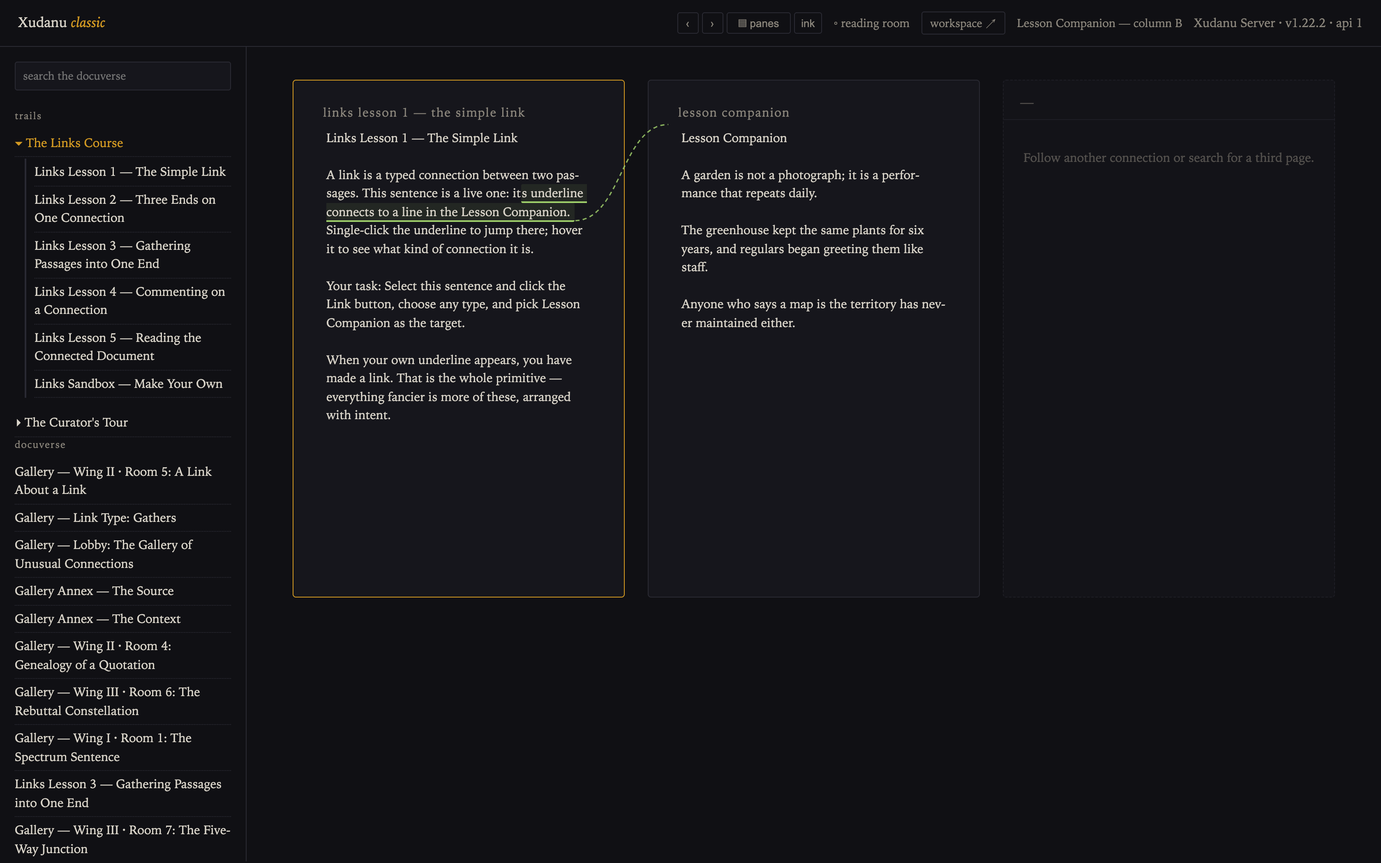
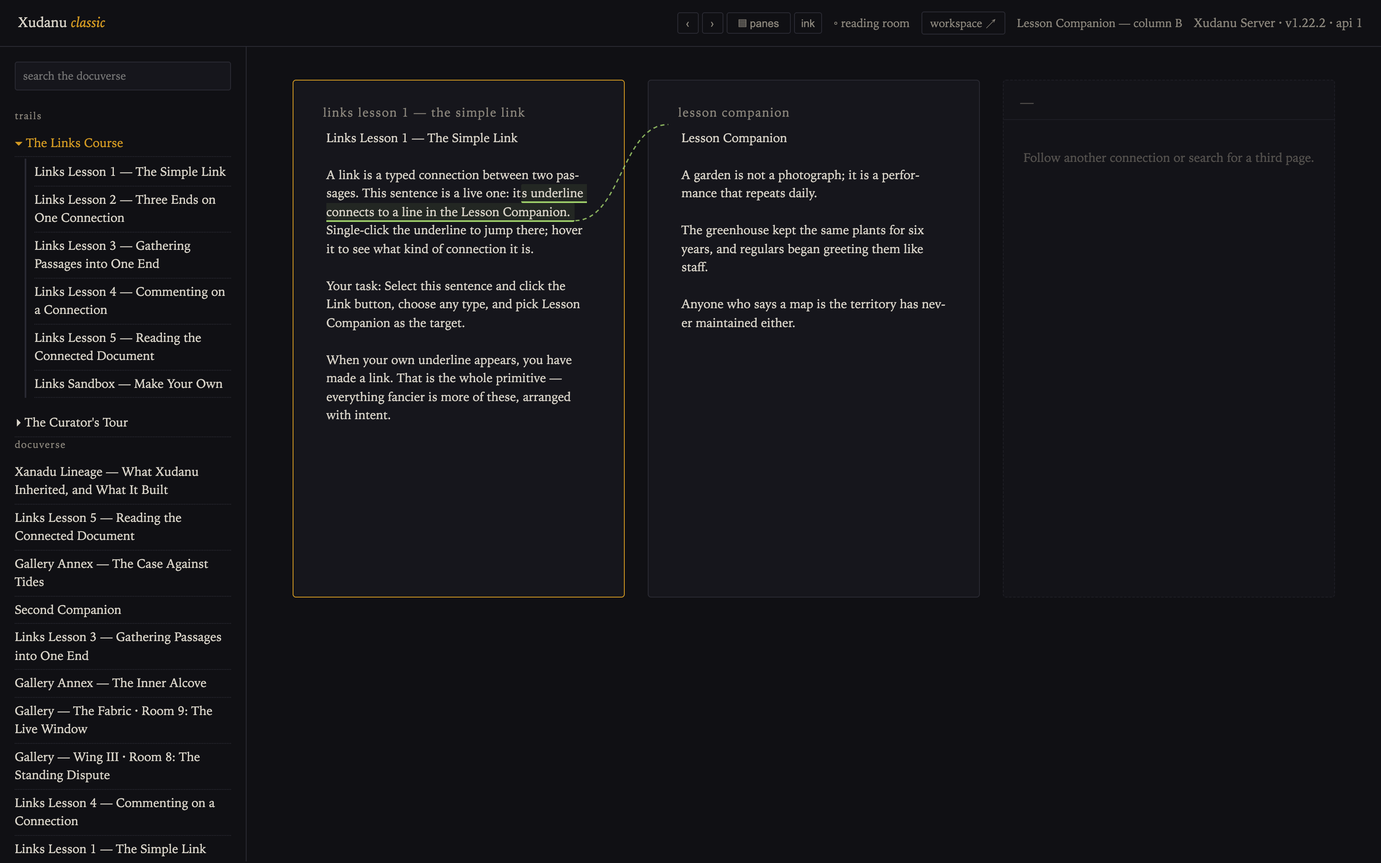
docs: xanalogical systems census — the field mapped and verified
Public census of every known system in the Udanax lineage plus the
independents beside it: completed from the transclusion.org community
list (missing cells filled, missing systems added — Abora Gold, the
reported C+Rust ports, Ted Nelson's own demo lineage (xuCamb/perma.pub,
OpenXanadu), Green modern builds, XCP), live/dead states verified
2026-11-20, a 1988–2026 timeline, and a section pointing at where the
Gold model is actually documented (three front doors: the gold-heritage
concept tables, the Glance system map, the dev/ build order).

Also: document-space.html — widen Space and Position boxes so the
trait subtitles no longer run under the frame strokes; classic
screenshots refreshed against the current build (beams, reading room,
nelson-box).

Corrections invited and attributed — see the census page footer.

Changed region(s): [[0.0, 0.5262, 0.1562, 0.9905]]

diff --git a/docs/xanalogical-census.html b/docs/xanalogical-census.html
@@ -1,0 +1,238 @@
+<!DOCTYPE html>
+<html lang="en">
+<head>
+<meta charset="utf-8">
+<meta name="viewport" content="width=device-width, initial-scale=1">
+<title>The Xanalogical Systems Census 2026 &mdash; who builds on Xanadu</title>
+<meta name="description" content="Every known xanalogical system mapped: the Udanax Green and Gold origins, every port, reimplementation, specification and independent heir &mdash; with live/dead status verified November 2026.">
+<style>
+@import url('https://fonts.googleapis.com/css2?family=Inter:wght@300;400;500;600;700;800&family=JetBrains+Mono:wght@400;500;600&display=swap');
+*{margin:0;padding:0;box-sizing:border-box}
+html{scroll-behavior:smooth}
+body{font-family:'Inter',system-ui,-apple-system,sans-serif;background:#0d1117;color:#c9d1d9;line-height:1.7;padding:0}
+.mono{font-family:'JetBrains Mono',monospace}
+a{color:#58a6ff;text-decoration:none}
+a:hover{text-decoration:underline}
+h1,h2,h3,h4{color:#e6edf3}
+h1{font-size:36px;font-weight:800;margin-bottom:8px;letter-spacing:-0.5px}
+h2{font-size:26px;font-weight:700;margin-top:72px;margin-bottom:16px;padding-bottom:8px;border-bottom:1px solid #21262d}
+h3{font-size:18px;font-weight:600;margin-top:32px;margin-bottom:12px;color:#58a6ff}
+h4{font-size:14px;font-weight:600;margin-top:20px;margin-bottom:6px;color:#8b949e}
+p{margin-bottom:12px;max-width:820px}
+code{font-family:'JetBrains Mono',monospace;font-size:0.88em;background:rgba(110,118,129,0.15);padding:2px 6px;border-radius:4px;color:#79c0ff}
+pre{background:#161b22;border:1px solid #30363d;border-radius:8px;padding:16px 20px;margin:16px 0;overflow-x:auto;font-family:'JetBrains Mono',monospace;font-size:13px;line-height:1.6;color:#c9d1d9}
+.content-wrap{max-width:960px;margin:0 auto;padding:48px 32px 80px}
+.subtitle{font-size:18px;color:#8b949e;font-weight:300;margin-bottom:40px}
+.diagram-container{margin:32px 0;padding:24px;background:#0d1117;border:1px solid #21262d;border-radius:12px;overflow-x:auto}
+.diagram-container svg{display:block;margin:0 auto;max-width:100%;height:auto}
+.diagram-caption{text-align:center;font-size:12px;color:#484f58;margin-top:12px;font-style:italic}
+.note{background:rgba(88,166,255,0.06);border-left:3px solid #58a6ff;padding:12px 16px;margin:16px 0;border-radius:0 6px 6px 0;font-size:14px;color:#8b949e}
+.note strong{color:#58a6ff}
+.gold{background:rgba(210,153,34,0.06);border-left:3px solid #d29922;padding:12px 16px;margin:16px 0;border-radius:0 6px 6px 0;font-size:14px;color:#8b949e}
+.gold strong{color:#d29922}
+.warning{background:rgba(248,81,73,0.06);border-left:3px solid #f85149;padding:12px 16px;margin:16px 0;border-radius:0 6px 6px 0;font-size:14px;color:#8b949e}
+.warning strong{color:#f85149}
+table{width:100%;border-collapse:collapse;margin:16px 0;font-size:13px}
+th{text-align:left;padding:10px 14px;border-bottom:2px solid #30363d;color:#8b949e;font-size:10px;text-transform:uppercase;letter-spacing:0.5px;font-weight:600}
+td{padding:10px 14px;border-bottom:1px solid #21262d;vertical-align:top}
+.toc{background:#161b22;border:1px solid #21262d;border-radius:8px;padding:20px 24px;margin:24px 0}
+.toc a{display:block;padding:3px 0;font-size:14px;color:#8b949e}
+.toc a:hover{color:#58a6ff}
+.toc .toc-section{font-weight:600;color:#e6edf3;margin-top:8px}
+.pro{color:#3fb950}
+.con{color:#f85149}
+.neutral{color:#d29922}
+.tag{display:inline-block;font-size:10px;font-weight:700;padding:2px 8px;border-radius:10px;text-transform:uppercase;letter-spacing:0.5px;margin-left:6px;vertical-align:middle}
+.tag-gold{background:rgba(210,153,34,0.15);color:#d29922;border:1px solid rgba(210,153,34,0.3)}
+.tag-green{background:rgba(63,185,80,0.15);color:#3fb950;border:1px solid rgba(63,185,80,0.3)}
+.tag-blue{background:rgba(88,166,255,0.15);color:#58a6ff;border:1px solid rgba(88,166,255,0.3)}
+.tag-purple{background:rgba(163,113,247,0.15);color:#a371f7;border:1px solid rgba(163,113,247,0.3)}
+.tag-red{background:rgba(248,81,73,0.15);color:#f85149;border:1px solid rgba(248,81,73,0.3)}
+ul{margin-left:20px;margin-bottom:12px;list-style:disc}
+li{margin-bottom:4px}
+.footer{margin-top:80px;padding-top:24px;border-top:1px solid #21262d;font-size:12px;color:#484f58;text-align:center}
+@media print{body{background:#fff;color:#222}h1,h2,h3,h4{color:#111}table{font-size:11px}}
+</style>
+</head>
+<body>
+<div style="background:#161b22;border-bottom:1px solid #30363d;color:#8b949e;font-size:13px;padding:6px 16px;text-align:center">An independent interpretation of the released Udanax Gold source &middot; not Project Xanadu documentation &middot; <a href="provenance.html" style="color:#58a6ff;text-decoration:none">about this documentation</a></div>
+<div class="content-wrap">
+
+<h1>The Xanalogical Systems Census</h1>
+<p class="subtitle">Every known system in the Udanax lineage &mdash; and the independents beside it &mdash; mapped, verified, and offered back to the community.</p>
+
+<div class="note"><strong>What this is.</strong> A census of xanalogical systems, started as a community working list on the transclusion.org Zulip in 2026. This page fills in the gaps, adds the systems the working list missed, and records a live/dead check of every web-facing artifact as of <strong>20 November 2026</strong>. A census is a snapshot, not a registry: it shows where xanalogical builders were focusing at one datable moment &mdash; and dated observations accumulate here rather than being silently overwritten, so over time the page becomes a record of where the field&rsquo;s attention went, not just what it built. Every entry carries what was verified and how. Corrections are welcome and will be attributed &mdash; <a href="#corrections">correct the table, don&rsquo;t reconstruct the history</a>.</div>
+
+<div class="toc">
+<div class="toc-section">Contents</div>
+<a href="#census">1. The census</a>
+<a href="#additions">2. Proposed additions &mdash; systems the list missed</a>
+<a href="#teds-demos">3. Ted Nelson&rsquo;s own browser demos &mdash; what remains</a>
+<a href="#timeline">4. Timeline, 1988&ndash;2026</a>
+<a href="#gold-model">5. Where the Gold model is actually documented</a>
+<a href="#sources">6. Sources and verification</a>
+<a href="#corrections">7. Corrections &mdash; how to reach us</a>
+</div>
+
+<h2 id="census">The census</h2>
+<p>Lineage tags: <span class="tag tag-gold">Gold</span> descended from the Udanax Gold design &middot; <span class="tag tag-green">Green</span> descended from Udanax Green (Xu88) &middot; <span class="tag tag-blue">Independent</span> no Udanax ancestry, same problem space &middot; <span class="tag tag-purple">Origin</span> the systems themselves.</p>
+
+<table>
+<thead><tr><th>System</th><th>Author</th><th>Since</th><th>Lineage</th><th>Stack</th><th>Status (Nov 2026)</th></tr></thead>
+<tbody>
+<tr><td><strong>Udanax Green</strong> (Xu88)</td><td>1988 team</td><td>1988</td><td><span class="tag tag-purple">Origin</span></td><td>C</td><td>Open-sourced 1999</td></tr>
+<tr><td><strong>Udanax Gold</strong></td><td>1992 team</td><td>1992</td><td><span class="tag tag-purple">Origin</span></td><td>C (cross-compiled from Smalltalk)</td><td>Open-sourced 1999</td></tr>
+<tr><td><strong>udanax-test-harness</strong></td><td>Shane Isbell</td><td>~2025&ndash;26</td><td><span class="tag tag-green">Green</span></td><td>&mdash;</td><td>On GitHub; details unverified</td></tr>
+<tr><td><strong>xanadu-spec</strong></td><td>Shane Isbell</td><td>2026</td><td><span class="tag tag-green">Green</span> (formal spec, agentic-AI-derived)</td><td>spec</td><td>On GitHub; accuracy unvalidated</td></tr>
+<tr><td><strong>OulipoMachine</strong></td><td>Shane Isbell</td><td>2017</td><td><span class="tag tag-green">Green</span>-inspired</td><td>Java</td><td>Archived ~2021</td></tr>
+<tr><td><strong>Alph</strong></td><td>Adam Moore</td><td>2016</td><td><span class="tag tag-blue">Independent</span>, web-native</td><td>JavaScript</td><td>Active (per census list)</td></tr>
+<tr><td><strong>xu60</strong></td><td>Raymond Finzel</td><td>Nov 2025</td><td><span class="tag tag-gold">Gold</span>-inspired deep addressing</td><td>Python</td><td class="pro">Active &mdash; PyPI 0.1.5, Sep 2026</td></tr>
+<tr><td><strong>Xudanu</strong></td><td>David Jones</td><td>2026</td><td><span class="tag tag-gold">Gold</span> document model, original code</td><td>Rust + React</td><td class="pro">Active &mdash; <a href="https://demo.transclusion.org">live public sandbox</a> verified 2026-11-20 (238 works)</td></tr>
+<tr><td><strong>Seed Hypermedia</strong></td><td>Gabo Beaumont et al. (Mintter Inc.)</td><td>2023 (as Mintter; rebranded Feb 2025)</td><td><span class="tag tag-blue">Independent</span> P2P, Xanadu-aware</td><td>Go/TS, libp2p + CRDTs</td><td class="pro">Very active &mdash; ~98 members, ACM HT&rsquo;24 paper</td></tr>
+</tbody>
+</table>
+
+<div class="gold"><strong>What the table says.</strong> Of the Gold lineage specifically, exactly one system is active with a running multi-user product: Xudanu. Its core stays close to the Gold model &mdash; and where it diverges, the divergences are documented openly, subsystem by subsystem, complexity comparison by complexity comparison, in both directions. xu60 is an addressing layer (content-addressed immutable URLs, not a docuverse). Everything else in the Gold line is dead, unreleased, or a spec. The independents (Alph, Seed) are alive and well in adjacent territory &mdash; different lineage, overlapping ambition.</div>
+
+<h2 id="additions">Proposed additions &mdash; systems the list missed</h2>
+<p>Found while completing this census. Offered back to the community list; verification method for each is in <a href="#sources">sources</a>.</p>
+
+<table>
+<thead><tr><th>System</th><th>Author</th><th>Since</th><th>Lineage</th><th>Status (Nov 2026)</th></tr></thead>
+<tbody>
+<tr><td><strong>Abora Gold</strong> / <a href="https://github.com/jonesd/udanax-gold2java">udanax-gold2java</a></td><td>David Jones</td><td>2003&ndash;2014</td><td><span class="tag tag-gold">Gold</span> (Smalltalk&rarr;Java, automatic translator + hand-translated classes)</td><td>Dead; mirrors the Gold Smalltalk and C++ sources. Predecessor of Xudanu</td></tr>
+<tr><td><strong>R. Gregory C + Rust ports</strong></td><td>Roger Gregory</td><td>2026 (reported Sept)</td><td><span class="tag tag-gold">Gold</span> (from ~150,000 lines Smalltalk; ~27,000 lines each)</td><td>Reported publicly as finished but <em>unreleased</em> (&ldquo;waiting on Ted&rdquo;); no code published; byte-identical-output claim unverified until release; means of translation not stated</td></tr>
+<tr><td><strong>AI-coded Xanadu demo</strong></td><td>&ldquo;alice&rdquo; (gitworkshop)</td><td>~Sept 2026</td><td>Built from published docs: permascrolls, xanalinks, transpointing windows</td><td>Python stdlib demo; single machine, no deps</td></tr>
+<tr><td><strong>udanax-green modern builds</strong></td><td>enkiv2; Kragen Javier Sitaker; nkhine</td><td>2019&ndash;2021&ndash;</td><td><span class="tag tag-green">Green</span> (actual code)</td><td>Mirrors and modern-Linux build fixes on GitHub</td></tr>
+<tr><td><strong>xuCamb / perma.pub</strong> (&ldquo;Cambridge Xanadu&rdquo;)</td><td>Ted Nelson + Edward Betts</td><td>2016</td><td><span class="tag tag-purple">Origin designer&rsquo;s own</span> &mdash; EDL, xanalinks, visible transclusion, simulated micropayment</td><td class="con">Server dead &mdash; see <a href="#teds-demos">below</a></td></tr>
+<tr><td><strong>OpenXanadu</strong></td><td>Nicholas Levin (for Ted Nelson)</td><td>2014</td><td><span class="tag tag-purple">Origin designer&rsquo;s own</span> &mdash; transclusions only; xanalinks cut to finish in time</td><td class="pro">Live &mdash; <a href="https://xanadu.com/xanademos/MoeJusteOrigins.html">xanadu.com demo</a> verified 2026-11-20</td></tr>
+</tbody>
+</table>
+
+<div class="note"><strong>Adjacent:</strong> <a href="https://github.com/jonesd/xcp">XCP</a> &mdash; a proposed open standard for cross-implementation content sharing between xanalogical systems. Not a system; listed because it matters the day more than one of these runs at once.</div>
+
+<h2 id="teds-demos">Ted Nelson&rsquo;s own browser demos &mdash; what remains</h2>
+<p>The origin designer&rsquo;s own line of browser demos is itself part of the census, and part of the story. Ted Nelson, describing where the design settled: <em>&ldquo;The Xanadu design has essentially resolved to one basic document concept: parallel pages with visible connections.&rdquo;</em> (<a href="http://hyperland.com/HTbrew-D11">hyperland.com</a>)</p>
+
+<table>
+<thead><tr><th>Demo</th><th>Year</th><th>What it had</th><th>State, verified 2026-11-20</th></tr></thead>
+<tbody>
+<tr><td><strong>XanaduSpace</strong></td><td>2003&ndash;7</td><td>Full 3D demo (with Robert Adamson Smith): EDL assembly, parallel pages, visible links and transclusions</td><td>Windows-only download; development abandoned (&ldquo;impossible due to the complexity of the code&rdquo;)</td></tr>
+<tr><td><strong>OpenXanadu</strong></td><td>2014</td><td>Browser viewer; transclusions only &mdash; xanalinks cut to finish in the time available</td><td class="pro">Live (200)</td></tr>
+<tr><td><strong>xuCamb / perma.pub</strong></td><td>2016</td><td>The most complete: EDL + xanalinks + visible transclusion + simulated micropayment, users could supply their own EDLs</td><td class="con">Dead: <code>xanadu.com/demo/</code> is a meta-refresh shell; perma.pub fails TLS (invalid certificate); surviving artifacts are orphaned xanalink text files on hyperland.com</td></tr>
+</tbody>
+</table>
+
+<div class="warning"><strong>The pattern:</strong> the fuller the demo, the deader the link. What remains reachable is the version that cut links; the version that had everything points into a void. (And transclusion.com itself, for contrast, is a parked domain-for-sale page.) The reading public currently has almost nowhere to watch passages visibly connect. This is the gap every active system in the census is, in one way or another, trying to fill.</div>
+
+<h2 id="timeline">Timeline, 1988&ndash;2026</h2>
+
+<div class="diagram-container">
+<svg viewBox="0 0 880 250" xmlns="http://www.w3.org/2000/svg" role="img" aria-label="Timeline of xanalogical systems 1988 to 2026">
+<!-- decade grid -->
+<line x1="40" y1="30" x2="840" y2="30" stroke="#21262d" stroke-width="1"/>
+<g font-family="Inter,sans-serif" font-size="10" fill="#484f58">
+<text x="40" y="22">1988</text>
+<text x="245" y="22">1999</text>
+<text x="450" y="22">2010</text>
+<text x="655" y="22">2020</text>
+<text x="830" y="22">2026</text>
+</g>
+<line x1="40" y1="30" x2="40" y2="220" stroke="#21262d" stroke-width="1"/>
+<line x1="245" y1="30" x2="245" y2="220" stroke="#21262d" stroke-width="1"/>
+<line x1="450" y1="30" x2="450" y2="220" stroke="#21262d" stroke-width="1"/>
+<line x1="655" y1="30" x2="655" y2="220" stroke="#21262d" stroke-width="1"/>
+<!-- axis -->
+<line x1="40" y1="140" x2="840" y2="140" stroke="#30363d" stroke-width="2"/>
+<!-- markers: x = 40 + (year-1988)*20.5 -->
+<!-- 1988 Green origin -->
+<circle cx="40" cy="140" r="6" fill="#a371f7"/>
+<text x="46" y="128" font-family="Inter,sans-serif" font-size="11" fill="#c9d1d9">Udanax Green</text>
+<!-- 1992 Gold origin -->
+<circle cx="122" cy="140" r="6" fill="#a371f7"/>
+<text x="128" y="156" font-family="Inter,sans-serif" font-size="11" fill="#c9d1d9">Udanax Gold (1992)</text>
+<!-- 1999 open-sourced -->
+<circle cx="266" cy="140" r="6" fill="#e6edf3"/>
+<text x="272" y="128" font-family="Inter,sans-serif" font-size="11" fill="#8b949e">open-sourced 1999</text>
+<!-- 2003 Abora -->
+<circle cx="347" cy="140" r="5" fill="#d29922"/>
+<text x="330" y="166" font-family="Inter,sans-serif" font-size="11" fill="#d29922">Abora Gold 2003&ndash;14</text>
+<!-- 2014 OpenXanadu -->
+<circle cx="573" cy="140" r="5" fill="#a371f7"/>
+<text x="478" y="128" font-family="Inter,sans-serif" font-size="11" fill="#a371f7">OpenXanadu 2014 (live)</text>
+<!-- 2016 xuCamb + Alph -->
+<circle cx="614" cy="140" r="5" fill="#a371f7"/>
+<text x="600" y="166" font-family="Inter,sans-serif" font-size="11" fill="#a371f7">xuCamb 2016 (dead)</text>
+<circle cx="614" cy="118" r="5" fill="#58a6ff"/>
+<text x="624" y="104" font-family="Inter,sans-serif" font-size="11" fill="#58a6ff">Alph 2016</text>
+<!-- 2017 OulipoMachine -->
+<circle cx="634" cy="140" r="5" fill="#3fb950"/>
+<text x="612" y="192" font-family="Inter,sans-serif" font-size="11" fill="#3fb950">OulipoMachine 2017 (archived)</text>
+<!-- 2019 enkiv2 -->
+<circle cx="675" cy="140" r="4" fill="#3fb950"/>
+<text x="655" y="156" font-family="Inter,sans-serif" font-size="10" fill="#3fb950">Green builds 2019&ndash;21</text>
+<!-- 2023 Mintter/Seed -->
+<circle cx="757" cy="140" r="5" fill="#58a6ff"/>
+<text x="712" y="166" font-family="Inter,sans-serif" font-size="11" fill="#58a6ff">Seed 2023&ndash;</text>
+<!-- 2025 xu60 -->
+<circle cx="800" cy="140" r="5" fill="#d29922"/>
+<text x="744" y="128" font-family="Inter,sans-serif" font-size="11" fill="#d29922">xu60 2025&ndash;</text>
+<!-- 2026 cluster -->
+<circle cx="822" cy="140" r="6" fill="#d29922"/>
+<text x="676" y="214" font-family="Inter,sans-serif" font-size="11" fill="#d29922">2026: Xudanu, xanadu-spec, ports</text>
+<!-- legend -->
+<g font-family="Inter,sans-serif" font-size="10">
+<circle cx="60" cy="212" r="4" fill="#d29922"/><text x="70" y="216" fill="#8b949e">Gold lineage</text>
+<circle cx="165" cy="212" r="4" fill="#3fb950"/><text x="175" y="216" fill="#8b949e">Green lineage</text>
+<circle cx="275" cy="212" r="4" fill="#58a6ff"/><text x="285" y="216" fill="#8b949e">Independent</text>
+<circle cx="380" cy="212" r="4" fill="#a371f7"/><text x="390" y="216" fill="#8b949e">Origin / designer&rsquo;s own</text>
+<circle cx="530" cy="212" r="4" fill="#e6edf3"/><text x="540" y="216" fill="#8b949e">Event</text>
+</g>
+</svg>
+<div class="diagram-caption">Thirty-eight years: two origin systems (1988, 1992), one burst of openness (1999), a scatter of descendants &mdash; and, since 2025, the busiest the field has ever been.</div>
+</div>
+
+<h2 id="gold-model">Where the Gold model is actually documented</h2>
+<p>The 1999 release was machine-generated C++, famously unreadable. The readable Smalltalk it came from was never given a prose companion. Between gwern&rsquo;s critique of the <em>idea</em> and machine-derived specs of <em>Green</em>, the clearest public explanation of how the <strong>Gold model actually works</strong> that we know of is the documentation set on this site &mdash; public, free, and built while implementing it:</p>
+<ul>
+<li><a href="gold-heritage.html">Udanax Gold Heritage &mdash; concept mapping</a> &mdash; 35+ Gold concepts (enfilades, canopy, clubs, locks, backfollow, H-tree) each traced to its running descendant. The front door if you speak Gold&rsquo;s vocabulary.</li>
+<li><a href="index.html">Xudanu at a Glance</a> &mdash; the clickable whole-system map, every region opening a deep-dive page. The front door if you speak systems vocabulary.</li>
+<li><a href="document-space.html">Document Space: Tumblers and Enfilades</a> &mdash; the position/region/algebra foundation under every address in the system.</li>
+<li><a href="transclusion-engine.html">Transclusion Engine</a> &mdash; canopy trees, backfollow queries, content-reuse detection.</li>
+<li><a href="transclusion-architecture.html">Transclusion Architecture</a> &mdash; this implementation&rsquo;s variant, compared honestly against Gold&rsquo;s enfilade/I-stream model.</li>
+<li><a href="gold-xudanu-complexity.html">Gold vs. Xudanu complexity</a> &mdash; subsystem-by-subsystem Big-O and footprint, derived by reading both codebases &mdash; in both directions, including where the 1992 design holds the advantage.</li>
+<li><a href="technical-architecture.html">Technical Architecture</a> &mdash; 15-section deep dive with Big-O analysis of every data structure.</li>
+<li>The engineering record (<code>dev/</code> series) &mdash; <a href="dev/xanadu-17-rules.html">Nelson&rsquo;s 17 rules with compliance status</a>, the <a href="dev/phases-4-6-mapping-fetext-wrapper-clubs.html">phase documents</a> (mapping algebra &rarr; clubs &rarr; transclusion queries &rarr; federation &rarr; governance), the <a href="dev/migration-notes.html">C++&rarr;Rust migration notes</a>, and the <a href="dev/test-registry.html">test registry</a>. Read in sequence, it doubles as a build order for a xanalogical engine &mdash; for anyone building their own.</li>
+<li><a href="xanadu-comparison.html">Udanax-Gold vs. OpenXanadu vs. Xudanu</a> &mdash; three lineages, feature by feature.</li>
+</ul>
+<p>Offered so the next builder doesn&rsquo;t start from zero. If you know of comparable public documentation of the Gold model elsewhere, this section will name it &mdash; <a href="#corrections">tell us</a>.</p>
+
+<h2 id="sources">Sources and verification</h2>
+<ul>
+<li><strong>The starting list:</strong> the xanalogical systems census worked on the transclusion.org Zulip (2026). This page is a completion of that list, not a replacement for it.</li>
+<li><strong>The framing critique:</strong> Gwern, <a href="https://gwern.net/xanadu">&ldquo;Xanadu: Then and Now&rdquo;</a> &mdash; the best-known critical essay on the design; the census is, in part, an empirical answer to its &ldquo;vaporware&rdquo; framing.</li>
+<li><strong>xu60:</strong> <a href="https://pypi.org/project/xu60">PyPI</a> &mdash; 0.1.0 Nov 2025, 0.1.5 Sep 2026, Python/ASGI.</li>
+<li><strong>Seed Hypermedia:</strong> <a href="https://seed.hyper.media/">seed.hyper.media</a>; ACM HT&rsquo;14/24 DOI 10.1145/3648188.3677050; Mintter rebrand Feb 2025.</li>
+<li><strong>R. Gregory ports:</strong> reported publicly Sept 2026 in correspondence archived in Don Hopkins&rsquo; <a href="https://github.com/SimHacker/WillWrightShowForFood">WillWrightShowForFood</a> repository (the invitation and reply documents). Unreleased; no cooperation with any project is implied by this entry; nothing here is quoted beyond what that public archive already states.</li>
+<li><strong>Ted Nelson&rsquo;s demo lineage:</strong> <a href="http://hyperland.com/HTbrew-D11">hyperland.com project history</a> and <a href="https://xanadu.com/YourXanadoc.html">xanadu.com/xanadoc instructions</a>. Liveness checked 2026-11-20: xanadu.com/demo/ returns 200 but is a meta-refresh to perma.pub, which fails TLS with an invalid certificate; hyperland.com/xuCambDemo/ returns 403 on the directory but sample xanalink files within return 200.</li>
+<li><strong>Live/dead checks</strong> on this page were made 2026&ndash;11&ndash;20 with plain HTTP requests (status codes as noted). Dates are recorded so future readers can see how fresh each observation was.</li>
+</ul>
+
+<h2 id="corrections">Corrections &mdash; how to reach us</h2>
+<p>This census improves by correction. Wrong dates, dead links reported alive, missed systems, misassigned lineage &mdash; all welcome, all attributed. Pick whichever door suits you:</p>
+<ul>
+<li><strong>Email</strong> (no account needed): <a href="mailto:david@dgjones.info?subject=Xanalogical%20census%20correction">david@dgjones.info</a></li>
+<li><strong>GitHub:</strong> open an issue or pull request at <a href="https://github.com/jonesd/xudanu">github.com/jonesd/xudanu</a> &mdash; PR corrections carry your attribution with them</li>
+<li><strong>Zulip:</strong> say so on transclusion.org, where the list began (members)</li>
+</ul>
+<p>Live/dead states get re-checked periodically; every entry carries the date it was last verified, so you can see how fresh each observation is before relying on it.</p>
+<p><strong>Cite as:</strong> Jones, David. <em>The Xanalogical Systems Census.</em> dgjones.info/xudanu/xanalogical-census.html, November 2026 edition (dated observations within).</p>
+
+<div class="footer">
+<p><strong>Xudanu</strong> is an independent, open-source project (Apache 2.0). It is not affiliated with, endorsed by, or sponsored by Ted Nelson, Project Xanadu&trade;, the Xanadu Operating Company, Autodesk Inc., or the Udanax development team. Xudanu implements concepts from the open-sourced Udanax-Gold codebase (released 1999) using original Rust and TypeScript code. All trademarks belong to their respective owners.</p>
+<p>Xudanu Documentation &mdash; <a href="index.html">dgjones.info/xudanu</a></p>
+</div>
+
+</div>
+</body>
+</html>

diff --git a/docs/document-space.html b/docs/document-space.html
@@ -143,12 +143,12 @@ The entire algebra is built on four traits, defined in <code>space/traits.rs</co
   </defs>
 
   <!-- Space -->
-  <rect x="250" y="20" width="200" height="60" rx="10" fill="rgba(88,166,255,0.08)" stroke="#58a6ff" stroke-width="2"/>
+  <rect x="220" y="20" width="260" height="60" rx="10" fill="rgba(88,166,255,0.08)" stroke="#58a6ff" stroke-width="2"/>
   <text x="350" y="44" text-anchor="middle" fill="#58a6ff" font-size="16" font-weight="700">Space</text>
   <text x="350" y="64" text-anchor="middle" fill="#8b949e" font-size="11">factory: empty, full, identity_dsp, orders</text>
 
   <!-- Position -->
-  <rect x="40" y="140" width="180" height="55" rx="10" fill="rgba(63,185,80,0.08)" stroke="#3fb950" stroke-width="2"/>
+  <rect x="25" y="140" width="210" height="55" rx="10" fill="rgba(63,185,80,0.08)" stroke="#3fb950" stroke-width="2"/>
   <text x="130" y="163" text-anchor="middle" fill="#3fb950" font-size="15" font-weight="700">Position</text>
   <text x="130" y="181" text-anchor="middle" fill="#8b949e" font-size="10">a point; can become a singleton region</text>
 

diff --git a/docs/index.html b/docs/index.html
@@ -698,6 +698,11 @@ h1{font-size:36px;font-weight:800;margin-bottom:8px;color:#e6edf3;letter-spacing
 
   <div class="doc-grid">
     <div class="doc-card">
+      <h3><a href="xanalogical-census.html">The Xanalogical Systems Census</a></h3>
+      <p>Every known system in the Udanax lineage and the independents beside it &mdash; live/dead status verified November 2026, a 1988&ndash;2026 timeline, and where the Gold model is actually documented.</p>
+      <span class="tag tag-featured">new</span>
+    </div>
+    <div class="doc-card">
       <h3><a href="gold-heritage.html">Udanax Gold Heritage</a></h3>
       <p>Side-by-side concept mapping: every Gold type, module, and subsystem traced to its Rust descendant, with SVG diagrams and status badges.</p>
       <span class="tag tag-html">html</span> <span class="tag tag-featured">featured</span>
